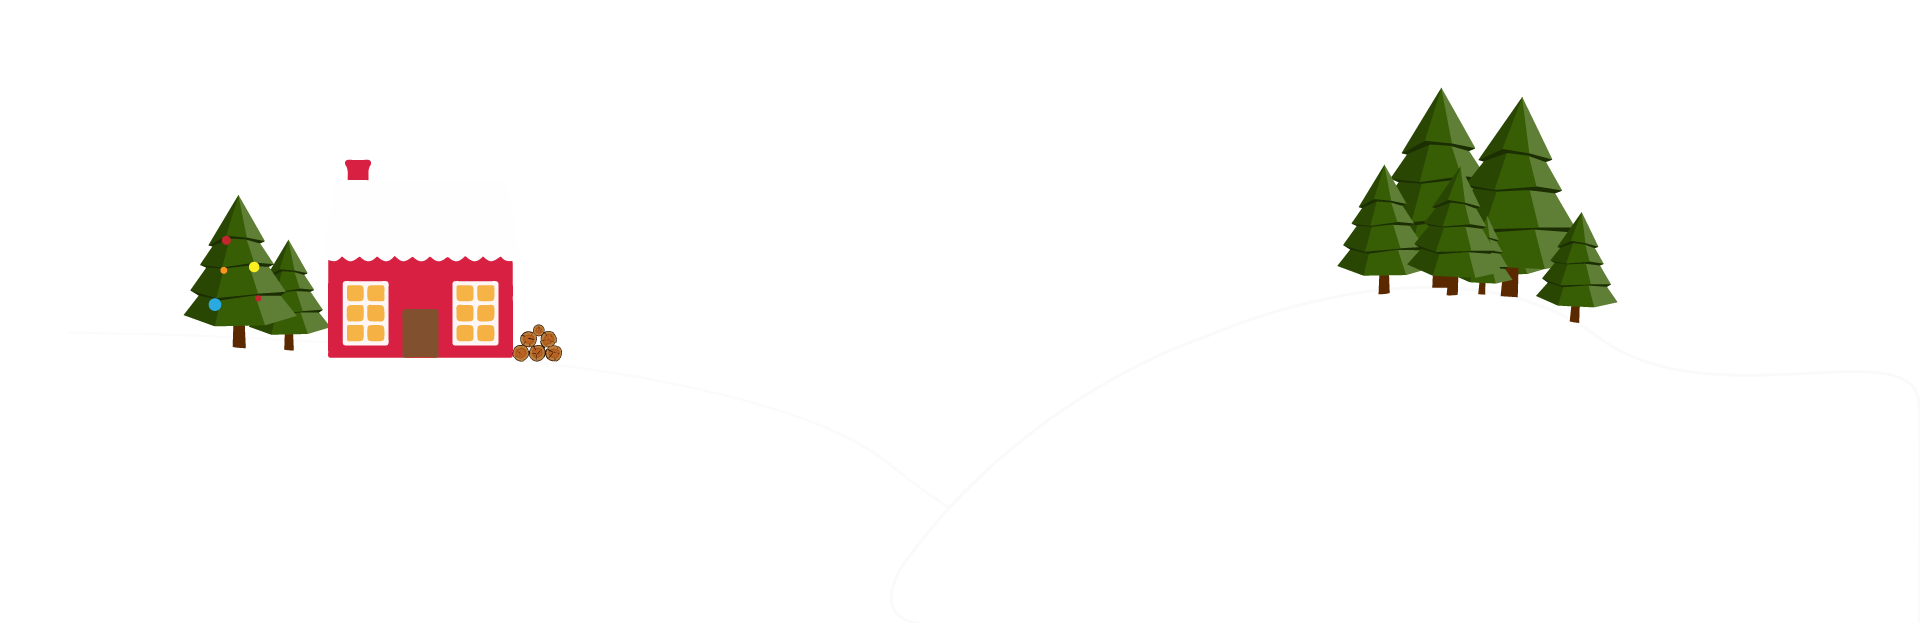
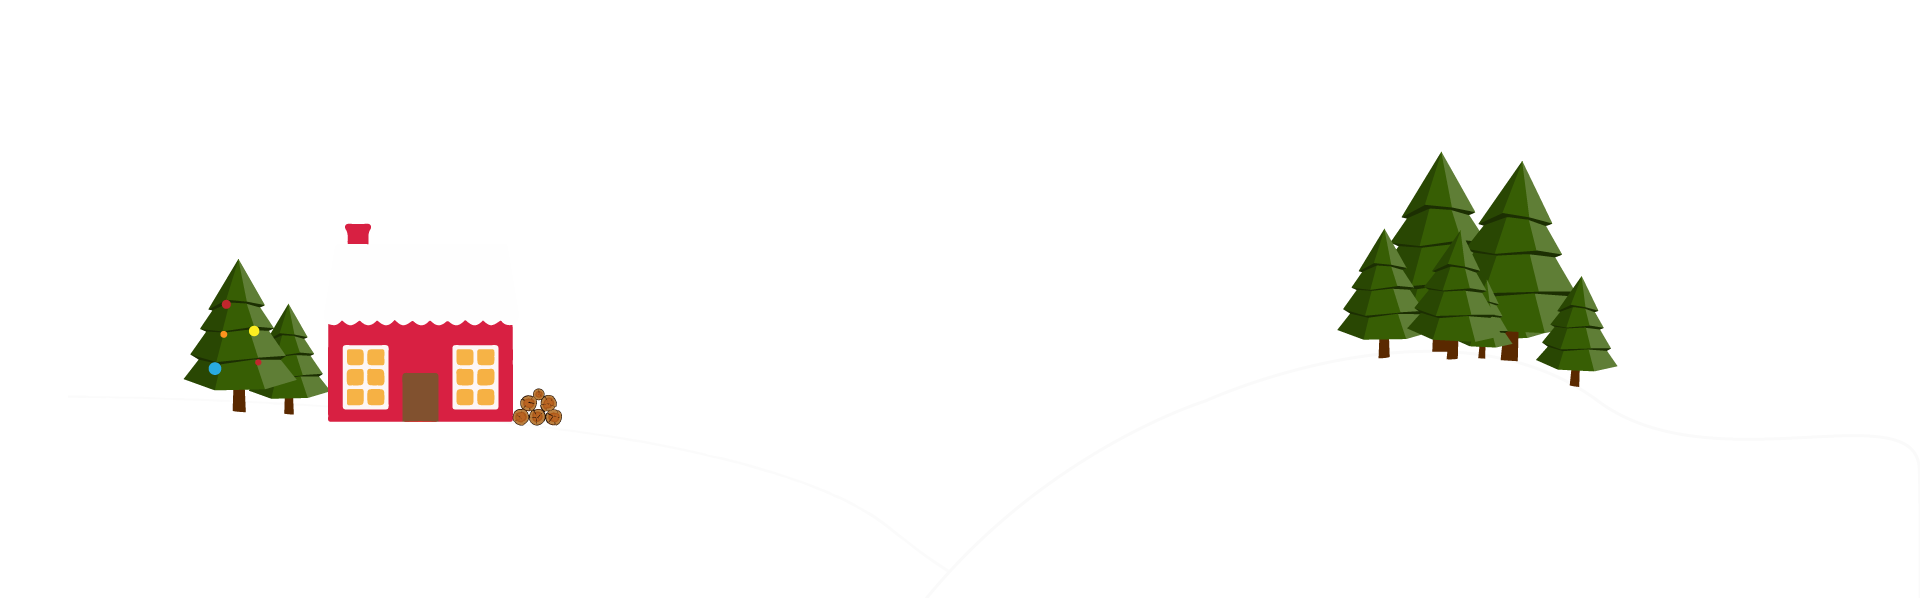
text-1 ok

Changed region(s): [[0.0938, 0.3311, 0.3125, 0.7224], [0.6875, 0.1505, 0.8438, 0.6321], [0.1562, 0.2408, 0.1875, 0.301]]

diff --git a/index.html b/index.html
@@ -18,10 +18,10 @@
     </header>
     <main>
         <section class="container wrap-text">
-            <div class="row justify-content-center ">
-                <div class="text-1">
+            <div class="row">
+                <div class="text-1 col-12">
                         <svg version="1.1" id="Calque_1" xmlns="http://www.w3.org/2000/svg" xmlns:xlink="http://www.w3.org/1999/xlink" x="0px" y="0px"
-                        width="557.354px" height="83.294px" viewBox="0 0 557.354 83.294" style="enable-background:new 0 0 557.354 83.294;"
+                        width="400px" height="83.294px" viewBox="0 0 557.354 83.294" style="enable-background:new 0 0 557.354 83.294;"
                         xml:space="preserve">
                    <g>
                        <path style="fill:#343434; stroke:#343434;stroke-width:3;stroke-miterlimit:10;" d="M7.4,7.013h12.221l12.221,57.569h0.202L44.971,7.013h12.221l-18.18,72.112H24.368L7.4,7.013z"/>
@@ -65,9 +65,9 @@
                    </g>
                    </svg>
                 </div>
-                <div class="text-2">
+                <div class="text-2 col-12">
                         <svg version="1.1" id="Calque_1" xmlns="http://www.w3.org/2000/svg" xmlns:xlink="http://www.w3.org/1999/xlink" x="0px" y="0px"
-                        width="791.177px" height="127.941px" viewBox="0 0 791.177 127.941" style="enable-background:new 0 0 791.177 127.941;"
+                        width="400px" height="100px" viewBox="0 0 791.177 127.941" style="enable-background:new 0 0 791.177 127.941;"
                         xml:space="preserve">
                    <g>
                        <path style="fill:transparent; stroke:#D82042; stroke-miterlimit:10;" d="M50.941,15.618L35.937,85.556c2.581,2.099,5.203,3.146,7.865,3.146c2.984,0,5.706-0.826,8.168-2.48
@@ -249,9 +249,21 @@
                    </svg>
                    
                 </div>
+
+
             </div>
         </section>
-
+                <div class="winter-is-coming">
+  
+                    <div class="snow snow--near"></div>
+                    <div class="snow snow--near snow--alt"></div>
+                    
+                    <div class="snow snow--mid"></div>
+                    <div class="snow snow--mid snow--alt"></div>
+                    
+                    <div class="snow snow--far"></div>
+                    <div class="snow snow--far snow--alt"></div>
+                  </div>
 
 
     </main>

diff --git a/assets/css/main.css b/assets/css/main.css
@@ -28,8 +28,12 @@ body {
 }
 
 .wrap-text {
-    margin-top: 200px;
+    margin-top: 100px;
     z-index: 100;
+}
+
+.text-1, .text-2{
+    text-align :center;
 }
 
 .text-1 path {
@@ -38,6 +42,8 @@ body {
     animation: aniwing 2s ease-in forwards;
     -webkit-animation: aniwing 2s ease-in forwards;
 }
+
+
 
 @keyframes aniwing {
     0% {
@@ -83,9 +89,95 @@ body {
 
 @keyframes dash {
     from {
-      stroke-dashoffset: 1000;
+        stroke-dashoffset: 1000;
     }
     to {
-      stroke-dashoffset: 0;
+        stroke-dashoffset: 0;
     }
-  }
+}
+
+.winter-is-coming,
+.snow {
+    z-index: 100;
+    pointer-events: none;
+}
+
+.winter-is-coming {
+    overflow: hidden;
+    position: absolute;
+    top: 0;
+    height: 100%;
+    width: 100%;
+    max-width: 100%;
+    /* background: #333; */
+}
+
+.snow {
+    position: absolute;
+    top: 0;
+    right: 0;
+    bottom: 0;
+    left: 0;
+    -webkit-animation: falling linear infinite both;
+    animation: falling linear infinite both;
+    -webkit-transform: translate3D(0, -100%, 0);
+    transform: translate3D(0, -100%, 0);
+}
+
+.snow--near {
+    -webkit-animation-duration: 10s;
+    animation-duration: 10s;
+    background-image: url("../medias/snow-large.png");
+    background-size: contain;
+}
+
+.snow--near+.snow--alt {
+    -webkit-animation-delay: 5s;
+    animation-delay: 5s;
+}
+
+.snow--mid {
+    -webkit-animation-duration: 20s;
+    animation-duration: 20s;
+    background-image: url("../medias/snow-medium.png");
+    background-size: contain;
+}
+
+.snow--mid+.snow--alt {
+    -webkit-animation-delay: 10s;
+    animation-delay: 10s;
+}
+
+.snow--far {
+    -webkit-animation-duration: 30s;
+    animation-duration: 30s;
+    background-image: url("../medias/snow-light.png");
+    background-size: contain;
+}
+
+.snow--far+.snow--alt {
+    -webkit-animation-delay: 15s;
+    animation-delay: 15s;
+}
+
+@-webkit-keyframes falling {
+    0% {
+        -webkit-transform: translate3D(-7.5%, -100%, 0);
+        transform: translate3D(-7.5%, -100%, 0);
+    }
+    100% {
+        -webkit-transform: translate3D(7.5%, 100%, 0);
+        transform: translate3D(7.5%, 100%, 0);
+    }
+}
+
+@keyframes falling {
+    0% {
+        -webkit-transform: translate3D(-7.5%, -100%, 0);
+        transform: translate3D(-7.5%, -100%, 0);
+    }
+    100% {
+        -webkit-transform: translate3D(7.5%, 100%, 0);
+        transform: translate3D(7.5%, 100%, 0);
+    }
+}
